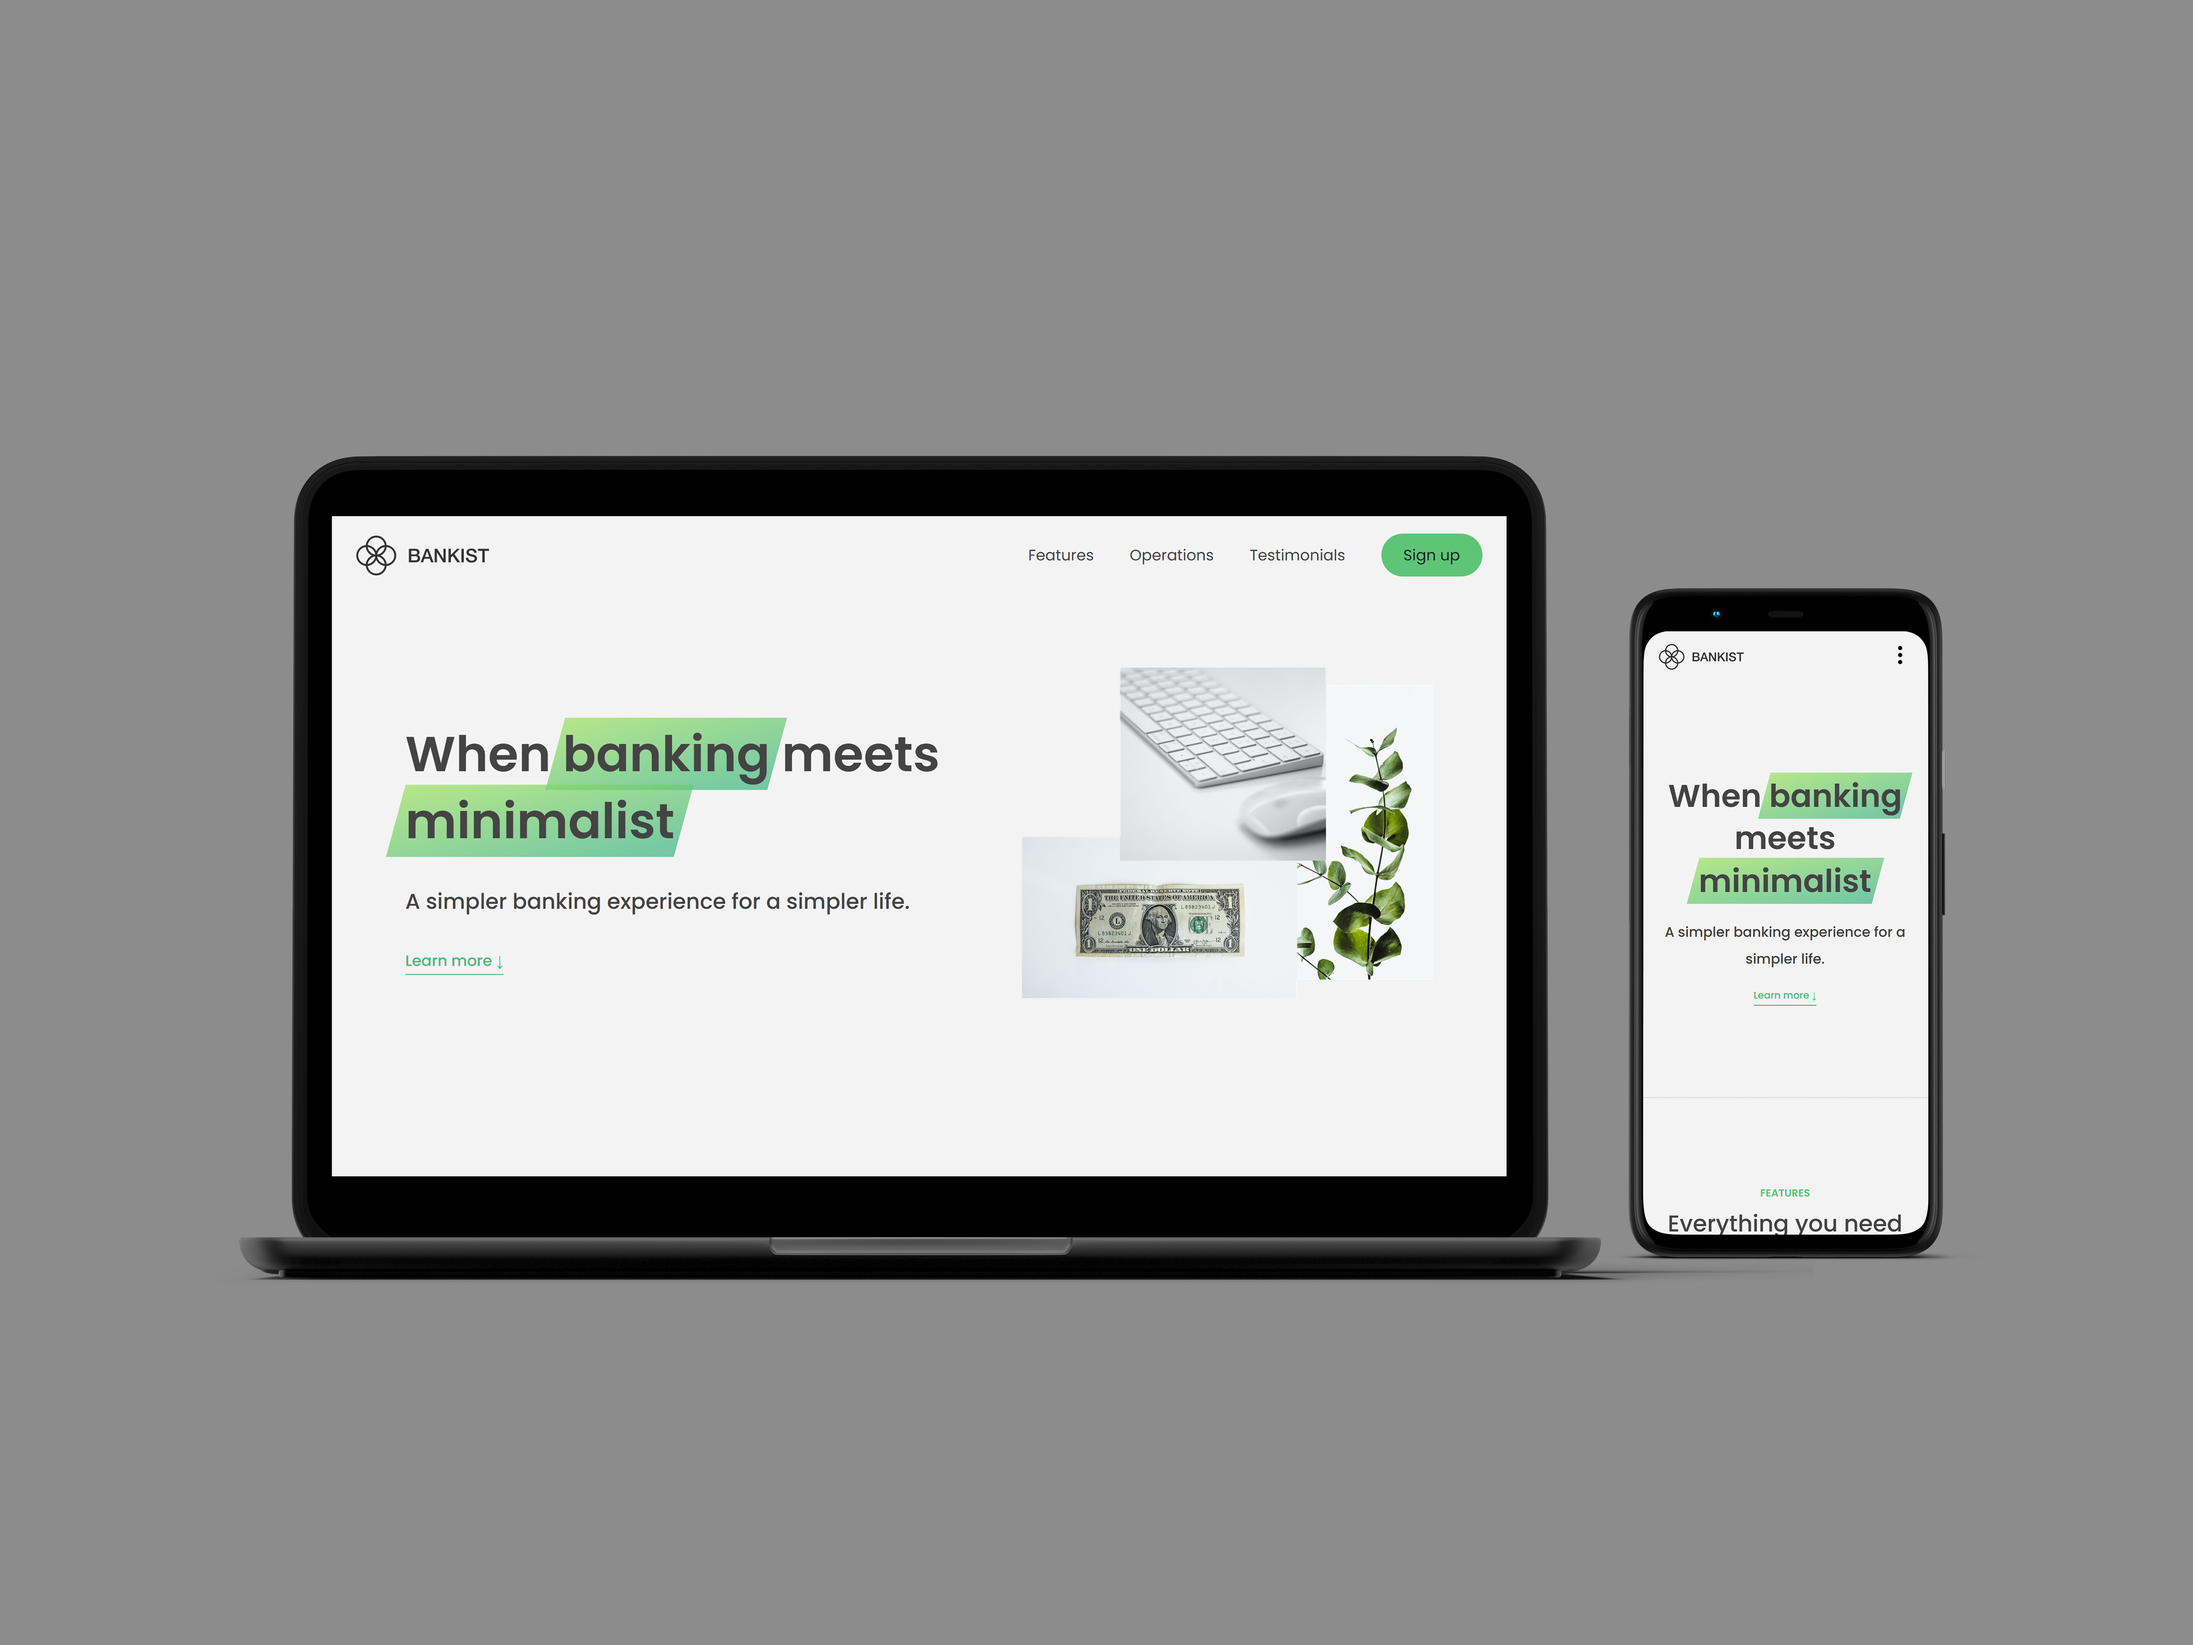
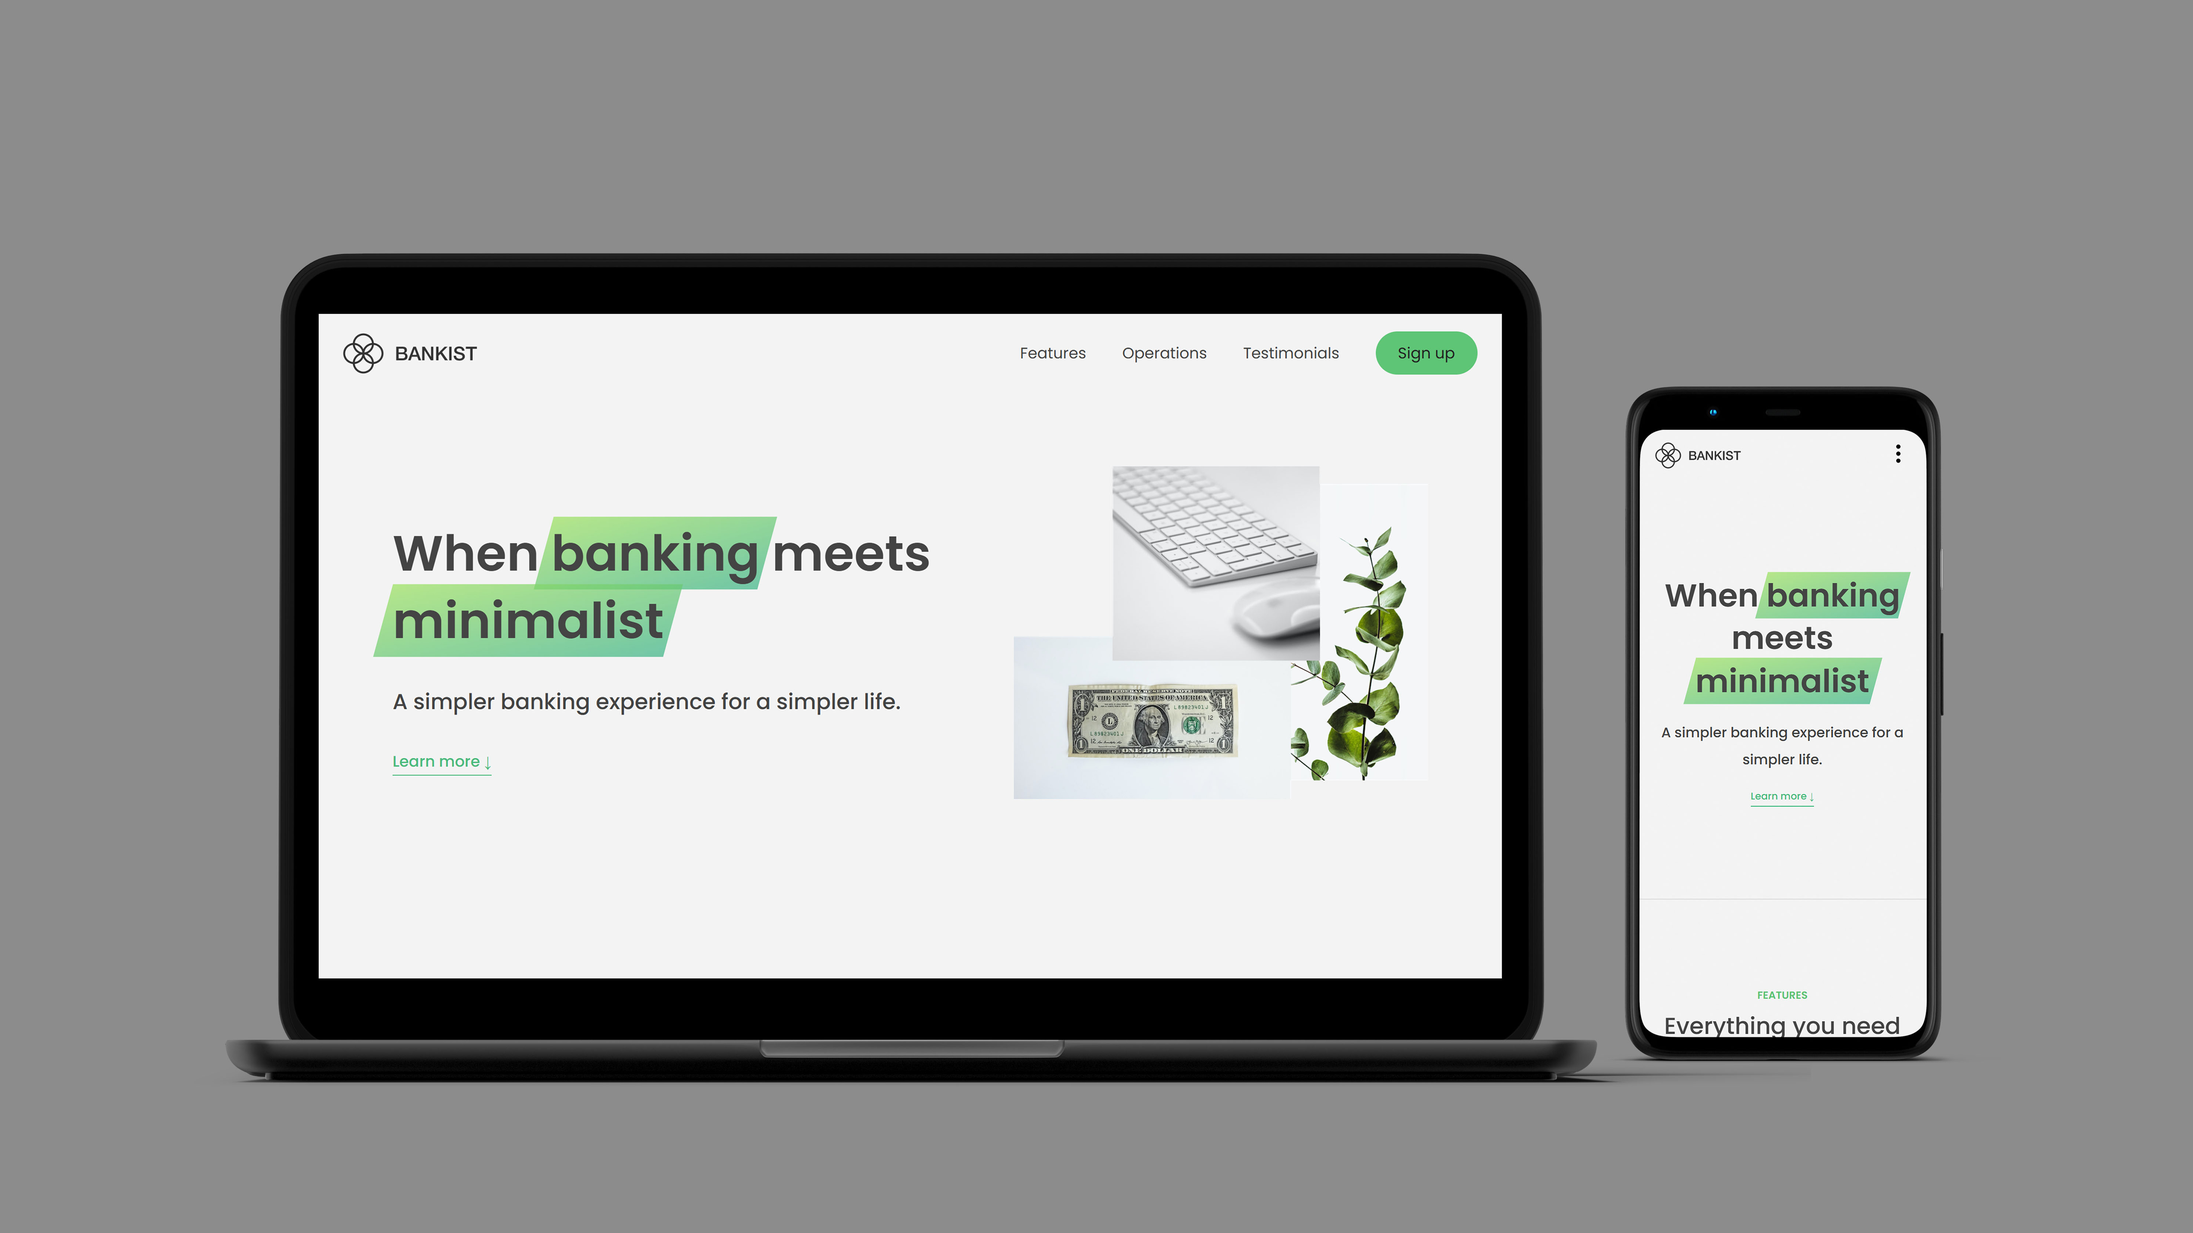
update readme file

Changed region(s): [[0.0935, 0.1867, 0.9038, 0.9022], [0.4675, 0.3733, 0.6545, 0.6533]]

diff --git a/login.html b/login.html
@@ -1,4 +1,4 @@
-<!DOCTYPE html>
+<!doctype html>
 <html lang="en">
   <head>
     <meta charset="UTF-8" />
@@ -32,12 +32,14 @@
           placeholder="user"
           class="login__input login__input--user"
           autofocus
+          value="hr"
         />
         <input
           type="password"
           placeholder="PIN"
           maxlength="4"
           class="login__input login__input--pin"
+          value="1111"
         />
         <button class="login__btn">&rarr;</button>
         <p class="error login__error"></p>

diff --git a/assets/js/script.js b/assets/js/script.js
@@ -248,7 +248,7 @@ for (let i = 0; i < maxSlideNum; i++) {
     <div class="dots__dot ${
       i === 0 && 'dots__dot--active'
     }" data-slide="${i}"></div>
-  `
+  `,
   );
 }
 

diff --git a/index.html b/index.html
@@ -1,4 +1,4 @@
-<!DOCTYPE html>
+<!doctype html>
 <html lang="en">
   <head>
     <meta charset="UTF-8" />

diff --git a/readme.md b/readme.md
@@ -2,12 +2,10 @@
 
 ## Table of Contents
 
--   [Description](#description)
--   [Key Features](#key-features)
--   [Technical Architecture](#technical-architecture)
--   [Tech Stack](#tech-stack)
-   
-**Live demo** [click here](https://bankist-banking-management.netlify.app/)
+- [Description](#description)
+- [Key Features](#key-features)
+- [Technical Architecture](#technical-architecture)
+- [Tech Stack](#tech-stack)
 
 ![alt text](./design/bankist-home.jpg)
 ![alt text](./design/account-management.jpg)
@@ -31,7 +29,6 @@ Bankist is a simulation for a modern banking web application built with Native J
 #### **Login Page:**
 
 - **Account Access:**
-
   - Users can log in to view and manage their accounts.
 
 - **Account Management Features:**
@@ -45,7 +42,6 @@ Bankist is a simulation for a modern banking web application built with Native J
 > ### **Technical Architecture:**
 
 1. **Functional Programming (FP):**
-
    - Code is structured using pure functions, immutability, and first-class functions for better readability and maintainability.
 
 2. **Performance Optimization:**
